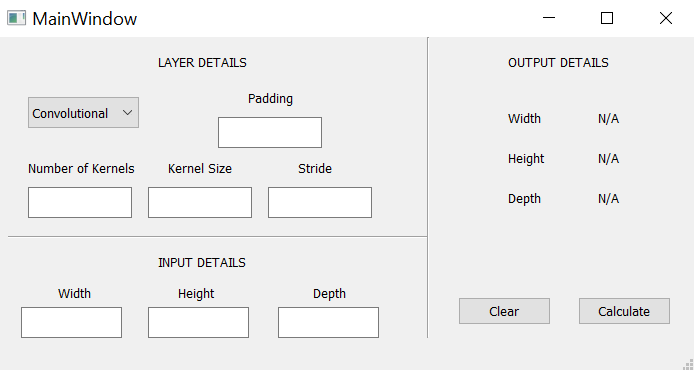
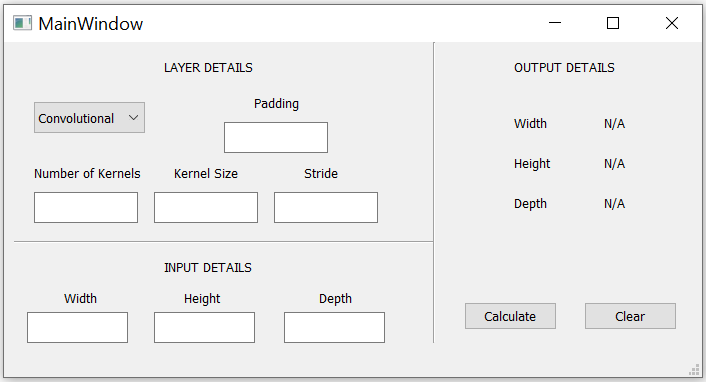
cleaned the geenrated GUI code

diff --git a/GUI.py b/GUI.py
@@ -36,13 +36,13 @@ class Ui_MainWindow(object):
         self.label_2.setGeometry(QtCore.QRect(30, 120, 111, 21))
         self.label_2.setObjectName("label_2")
         
-        self.textEdit = QtWidgets.QTextEdit(self.centralwidget)
-        self.textEdit.setGeometry(QtCore.QRect(30, 150, 104, 31))
-        self.textEdit.setObjectName("textEdit")
+        self.kernel_num_txt = QtWidgets.QTextEdit(self.centralwidget)
+        self.kernel_num_txt.setGeometry(QtCore.QRect(30, 150, 104, 31))
+        self.kernel_num_txt.setObjectName("kernel_num_txt")
         
-        self.textEdit_2 = QtWidgets.QTextEdit(self.centralwidget)
-        self.textEdit_2.setGeometry(QtCore.QRect(150, 150, 104, 31))
-        self.textEdit_2.setObjectName("textEdit_2")
+        self.kernel_size_txt = QtWidgets.QTextEdit(self.centralwidget)
+        self.kernel_size_txt.setGeometry(QtCore.QRect(150, 150, 104, 31))
+        self.kernel_size_txt.setObjectName("kernel_size_txt")
         
         self.label_3 = QtWidgets.QLabel(self.centralwidget)
         self.label_3.setGeometry(QtCore.QRect(170, 120, 71, 21))
@@ -56,13 +56,13 @@ class Ui_MainWindow(object):
         self.label_5.setGeometry(QtCore.QRect(300, 120, 41, 21))
         self.label_5.setObjectName("label_5")
         
-        self.textEdit_3 = QtWidgets.QTextEdit(self.centralwidget)
-        self.textEdit_3.setGeometry(QtCore.QRect(220, 80, 104, 31))
-        self.textEdit_3.setObjectName("textEdit_3")
+        self.padding_txt = QtWidgets.QTextEdit(self.centralwidget)
+        self.padding_txt.setGeometry(QtCore.QRect(220, 80, 104, 31))
+        self.padding_txt.setObjectName("padding_txt")
         
-        self.textEdit_4 = QtWidgets.QTextEdit(self.centralwidget)
-        self.textEdit_4.setGeometry(QtCore.QRect(270, 150, 104, 31))
-        self.textEdit_4.setObjectName("textEdit_4")
+        self.stride_txt = QtWidgets.QTextEdit(self.centralwidget)
+        self.stride_txt.setGeometry(QtCore.QRect(270, 150, 104, 31))
+        self.stride_txt.setObjectName("stride_txt")
         
         self.label_6 = QtWidgets.QLabel(self.centralwidget)
         self.label_6.setGeometry(QtCore.QRect(160, 210, 91, 30))
@@ -80,25 +80,25 @@ class Ui_MainWindow(object):
         self.label_9.setGeometry(QtCore.QRect(315, 245, 41, 21))
         self.label_9.setObjectName("label_9")
         
-        self.textEdit_5 = QtWidgets.QTextEdit(self.centralwidget)
-        self.textEdit_5.setGeometry(QtCore.QRect(23, 270, 101, 31))
-        self.textEdit_5.setObjectName("textEdit_5")
+        self.inp_width_txt = QtWidgets.QTextEdit(self.centralwidget)
+        self.inp_width_txt.setGeometry(QtCore.QRect(23, 270, 101, 31))
+        self.inp_width_txt.setObjectName("inp_width_txt")
         
-        self.textEdit_6 = QtWidgets.QTextEdit(self.centralwidget)
-        self.textEdit_6.setGeometry(QtCore.QRect(150, 270, 101, 31))
-        self.textEdit_6.setObjectName("textEdit_6")
+        self.inp_height_txt = QtWidgets.QTextEdit(self.centralwidget)
+        self.inp_height_txt.setGeometry(QtCore.QRect(150, 270, 101, 31))
+        self.inp_height_txt.setObjectName("inp_height_txt")
         
-        self.textEdit_7 = QtWidgets.QTextEdit(self.centralwidget)
-        self.textEdit_7.setGeometry(QtCore.QRect(280, 270, 101, 31))
-        self.textEdit_7.setObjectName("textEdit_7")
+        self.inp_depth_txt = QtWidgets.QTextEdit(self.centralwidget)
+        self.inp_depth_txt.setGeometry(QtCore.QRect(280, 270, 101, 31))
+        self.inp_depth_txt.setObjectName("inp_depth_txt")
         
-        self.pushButton = QtWidgets.QPushButton(self.centralwidget)
-        self.pushButton.setGeometry(QtCore.QRect(460, 260, 93, 28))
-        self.pushButton.setObjectName("pushButton")
+        self.calculateButton = QtWidgets.QPushButton(self.centralwidget)
+        self.calculateButton.setGeometry(QtCore.QRect(460, 260, 93, 28))
+        self.calculateButton.setObjectName("calculateButton")
 
-        self.pushButton_2 = QtWidgets.QPushButton(self.centralwidget)
-        self.pushButton_2.setGeometry(QtCore.QRect(580, 260, 93, 28))
-        self.pushButton_2.setObjectName("pushButton_2")
+        self.clearButton = QtWidgets.QPushButton(self.centralwidget)
+        self.clearButton.setGeometry(QtCore.QRect(580, 260, 93, 28))
+        self.clearButton.setObjectName("clearButton")
         
         self.label_10 = QtWidgets.QLabel(self.centralwidget)
         self.label_10.setGeometry(QtCore.QRect(510, 10, 101, 30))
@@ -116,17 +116,17 @@ class Ui_MainWindow(object):
         self.label_13.setGeometry(QtCore.QRect(510, 150, 51, 21))
         self.label_13.setObjectName("label_13")
         
-        self.label_14 = QtWidgets.QLabel(self.centralwidget)
-        self.label_14.setGeometry(QtCore.QRect(600, 150, 51, 21))
-        self.label_14.setObjectName("label_14")
+        self.out_width_label = QtWidgets.QLabel(self.centralwidget)
+        self.out_width_label.setGeometry(QtCore.QRect(600, 70, 55, 21))
+        self.out_width_label.setObjectName("out_width_label")
         
-        self.label_15 = QtWidgets.QLabel(self.centralwidget)
-        self.label_15.setGeometry(QtCore.QRect(600, 110, 51, 21))
-        self.label_15.setObjectName("label_15")
+        self.out_height_label = QtWidgets.QLabel(self.centralwidget)
+        self.out_height_label.setGeometry(QtCore.QRect(600, 110, 55, 21))
+        self.out_height_label.setObjectName("out_height_label")
         
-        self.label_16 = QtWidgets.QLabel(self.centralwidget)
-        self.label_16.setGeometry(QtCore.QRect(600, 70, 51, 21))
-        self.label_16.setObjectName("label_16")
+        self.out_depth_label = QtWidgets.QLabel(self.centralwidget)
+        self.out_depth_label.setGeometry(QtCore.QRect(600, 150, 55, 21))
+        self.out_depth_label.setObjectName("out_depth_label")
         
         MainWindow.setCentralWidget(self.centralwidget)
         self.statusbar = QtWidgets.QStatusBar(MainWindow)
@@ -153,16 +153,16 @@ class Ui_MainWindow(object):
         self.label_8.setText(_translate("MainWindow", "Height"))
         self.label_9.setText(_translate("MainWindow", "Depth"))
         
-        self.pushButton.setText(_translate("MainWindow", "Calculate"))
-        self.pushButton_2.setText(_translate("MainWindow", "Clear"))
+        self.calculateButton.setText(_translate("MainWindow", "Calculate"))
+        self.clearButton.setText(_translate("MainWindow", "Clear"))
 
         self.label_10.setText(_translate("MainWindow", "OUTPUT DETAILS"))
         self.label_11.setText(_translate("MainWindow", "Width"))
         self.label_12.setText(_translate("MainWindow", "Height"))
         self.label_13.setText(_translate("MainWindow", "Depth"))
-        self.label_14.setText(_translate("MainWindow", "N/A"))
-        self.label_15.setText(_translate("MainWindow", "N/A"))
-        self.label_16.setText(_translate("MainWindow", "N/A"))
+        self.out_width_label.setText(_translate("MainWindow", "N/A"))
+        self.out_height_label.setText(_translate("MainWindow", "N/A"))
+        self.out_depth_label.setText(_translate("MainWindow", "N/A"))
 
 
 if __name__ == "__main__":

diff --git a/README.md b/README.md
@@ -5,7 +5,8 @@ An application to calculate the output dimensions of a layer in a traditional co
 <ol>
   <li><s>Design a command line program for handling simple conv and pool layers</s></li>
   <li><s>Design basic GUI for inputs (using Qt Designer)</s></li>
-  <li>Clean up the code generated from Qt Designer</li>
+  <li><s>Clean up the code generated from Qt Designer</s></li>
+  <li>Start testing attaching commands to buttons and manipulating textboxes and labels</li>
   <li>Add the logic code to the GUI</li>
   <li>(Optional) Improve GUI, work on error handling</li>
   <li>(For the future) Allow for multi-layer input-output</li>
